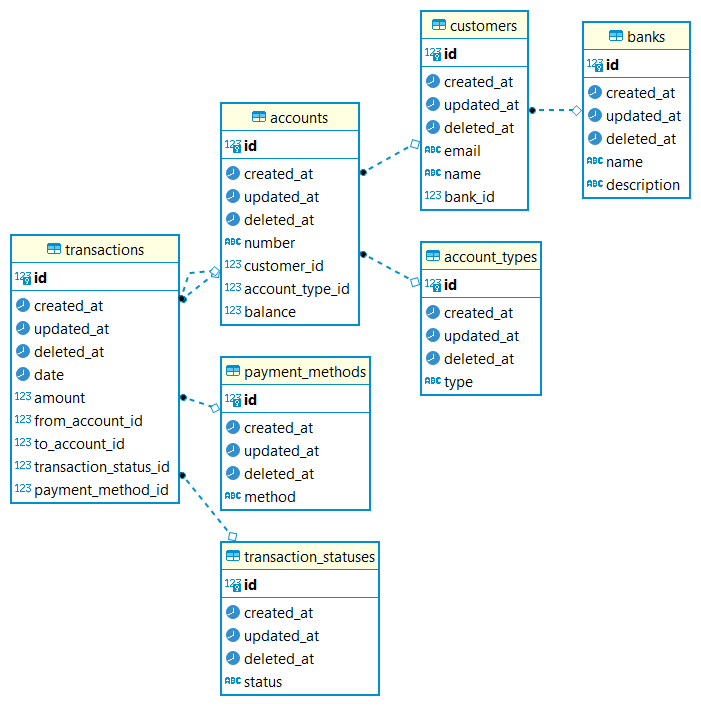
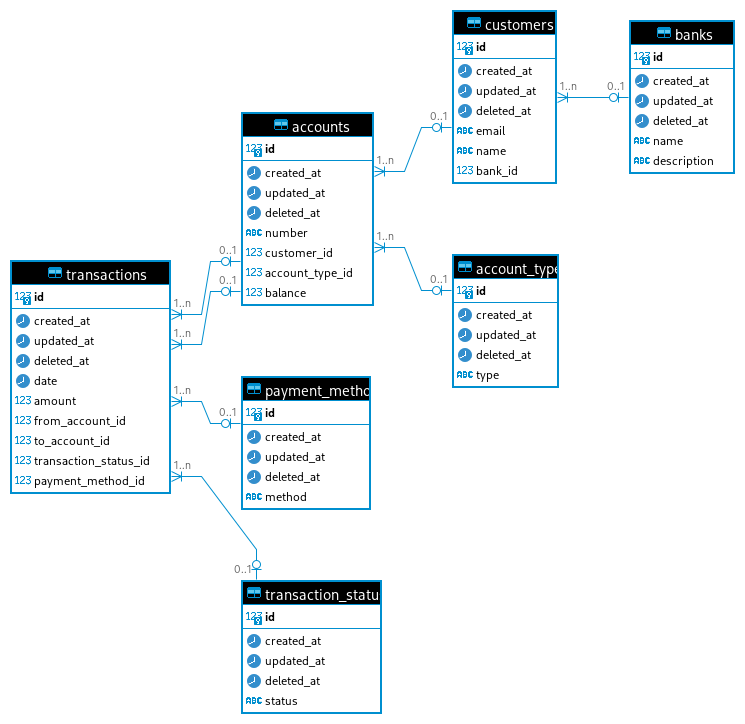
Updated database schema details

Changed region(s): [[0.0, 0.0, 0.9886, 0.9972]]

diff --git a/database.md b/database.md
@@ -1,6 +1,6 @@
 # Database Design
 
-The database schema is as follows:
+The database schema is as follows: <br/>
 ![Database-schema](./db-schema-diagram.png)
 
 ### Tables
@@ -8,35 +8,35 @@ The database schema is as follows:
 The explanation about tables are:
 
 1. Payment Methods
-
-- Table Entity to store about payment methods
-- Eg. Transfer, Check Deposit, ...
+- It holds details about payment methods. Eg. Transfer, Cheque Deposit, etc
+- It holds a ‘one to many’ relation with transactions table
+    - i.e A payment method entity is associated with one or many transaction entities.
 
 2. Transaction Statuses
-
-- Status about a transaction
-- Eg. Completed, Pending
+- It holds information related to a transaction’s status. E.g Completed, Pending.
+- It also holds a ‘one to many’ relation with the transactions table.
 
 3. Banks
+- It holds information related to bank details. 
+- It holds a ‘one to many’ relation with the customer table.
+    - i.e A bank entity may hold one or more customers.
 
-- Table Entity to store details of banks
-- Eg. XYZ Bank, EFG Bank,...
+4. Accounts
+- Table Entity to store details of customer’s accounts
+- It holds a ‘zero or one’ relation with the Bank table.
+- It holds a ‘one to many’ relation with the transactions table.
+- It also holds a ‘zero or one’ relation with the account type table.
 
-4. Customers
-
-- Table Entity to store details of customers
-- Eg. Ram, Shyam,..
-
-5. Accounts
-
-- Table entity to store details of customer's accounts
+5. Customers
+- Table entity to store details of customers.
+- It holds a ‘zero or one’ relation with the Banks table.
+- It holds a ‘one-to-many’ relation with the accounts table.
 
 6. Account Type
-
-- Table entity to store details about types of accounts
-- Eg. Savings, Current, ...
+- Table entity to store details about types of accounts. Eg. Savings, Current, …
+- It holds a ‘one to many’ relation with the Accounts table.
 
 7. Transactions
-
-- Table Entity to store details about all the transactions that has occurred.
+- Table Entity to store details about all the transactions that have occurred.
+- It holds ‘zero or one’ relation with Accounts, transaction status and payment method table. 
 
